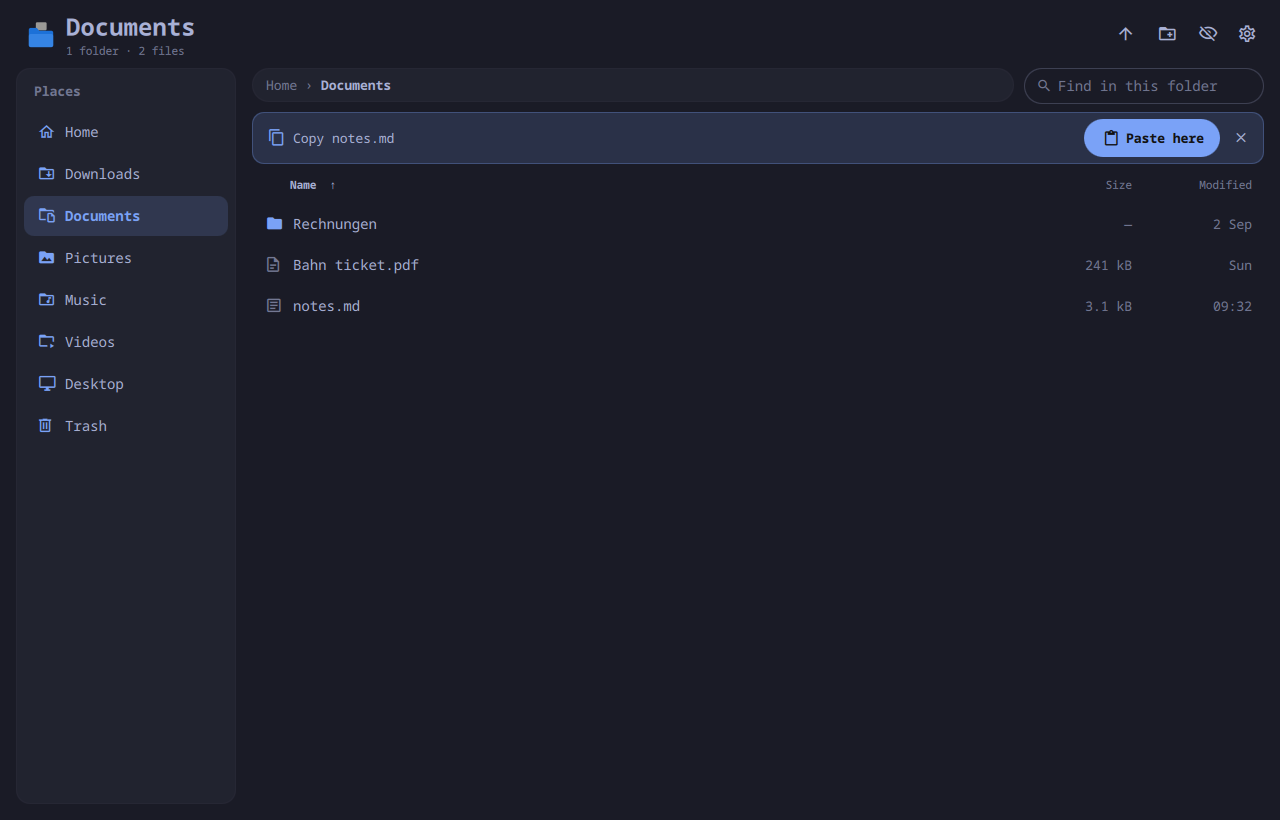
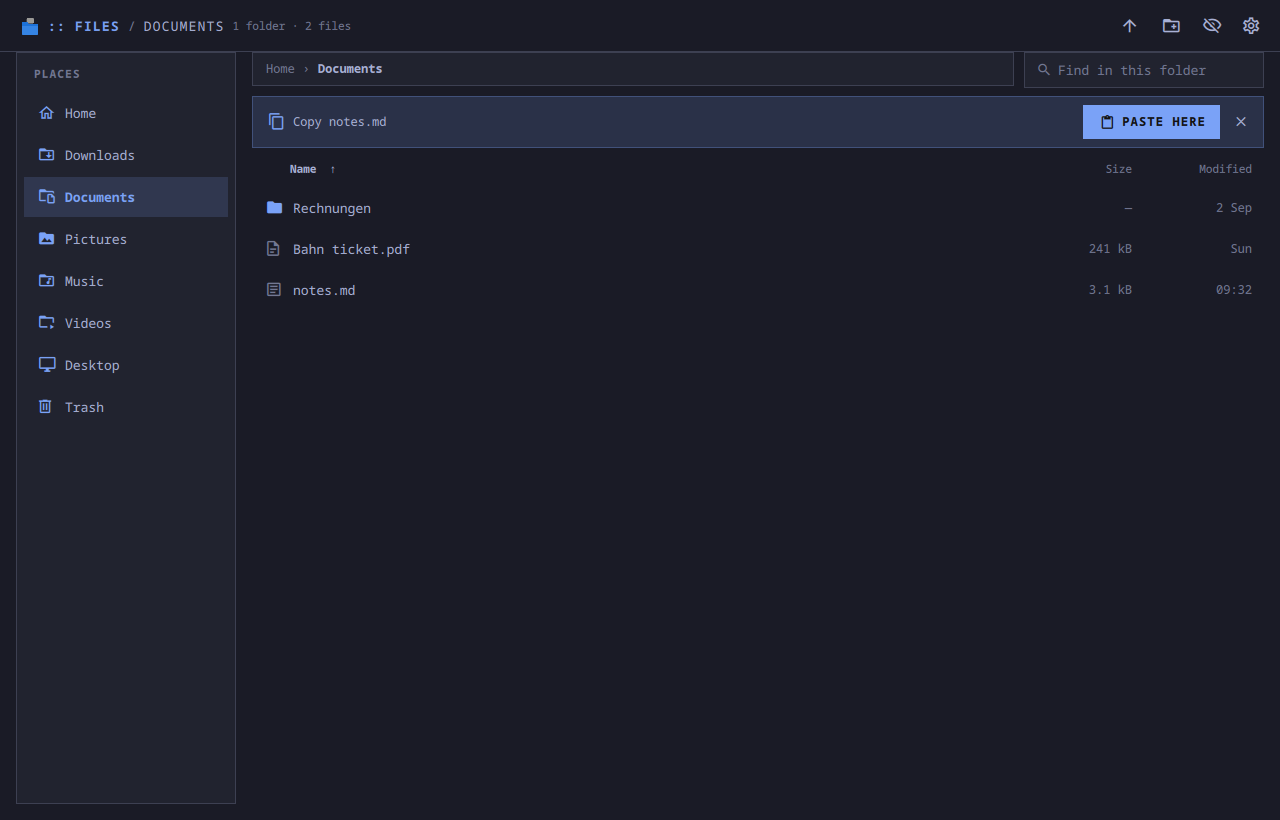
Files in Omarchy's look
The crumb strip, the places pane, the preview and the action sheet are
lined square boxes; 'Places' and the preview's fields are the kit's small
capitals, and a volume's fill bar is square where the theme is.

diff --git a/apps/files/Panel.qml b/apps/files/Panel.qml
@@ -750,10 +750,10 @@ App {
     anchors.bottom: parent.bottom
     anchors.leftMargin: root.compact ? 0 : 16
     anchors.bottomMargin: 16
-    radius: root.ui.radius + 4
+    radius: root.ui.radius
     color: root.ui.surface
     border.width: 1
-    border.color: root.ui.divider
+    border.color: root.ui.line
     Text {
       id: sideTitle
       x: 18
@@ -761,8 +761,10 @@ App {
       text: "Places"
       color: root.ui.muted
       font.family: root.ui.font
-      font.pixelSize: root.ui.fs.sm
-      font.weight: Font.DemiBold
+      font.pixelSize: root.ui.fs.xs
+      font.weight: Font.Bold
+      font.capitalization: Font.AllUppercase
+      font.letterSpacing: root.ui.tracking
     }
     PlacesList {
       anchors.top: sideTitle.bottom
@@ -831,7 +833,7 @@ App {
         visible: root.holding !== null
         width: parent.width
         height: 52
-        radius: root.ui.radius + 2
+        radius: root.ui.radius
         color: root.ui.accentSoft
         border.width: 1
         border.color: root.ui.alpha(root.ui.accent, 0.4)
@@ -903,7 +905,7 @@ App {
             color: root.sort === modelData.key ? root.ui.text : root.ui.muted
             font.family: root.ui.font
             font.pixelSize: root.ui.fs.xs
-            font.weight: root.sort === modelData.key ? Font.DemiBold : Font.Normal
+            font.weight: root.sort === modelData.key ? Font.Bold : Font.Normal
             MouseArea {
               anchors.fill: parent
               cursorShape: Qt.PointingHandCursor

diff --git a/apps/files/ActionSheet.qml b/apps/files/ActionSheet.qml
@@ -45,10 +45,10 @@ Item {
     height: col.implicitHeight + 24 + (atBottom ? root.app.bottomInset : 0)
     anchors.horizontalCenter: parent.horizontalCenter
     y: atBottom ? parent.height - height : (parent.height - height) / 2
-    radius: root.app.ui.radius + 6
+    radius: root.app.ui.radius
     color: root.app.ui.bg
     border.width: 1
-    border.color: root.app.ui.border
+    border.color: root.app.ui.line
     MouseArea { anchors.fill: parent }
 
     Column {
@@ -65,8 +65,10 @@ Item {
         text: root.title
         color: root.app.ui.muted
         font.family: root.app.ui.font
-        font.pixelSize: root.app.ui.fs.sm
-        font.weight: Font.DemiBold
+        font.pixelSize: root.app.ui.fs.xs
+        font.weight: Font.Bold
+        font.capitalization: Font.AllUppercase
+        font.letterSpacing: root.app.ui.tracking
         elide: Text.ElideMiddle
       }
       Column {
@@ -102,7 +104,7 @@ Item {
             color: item.modelData.destructive ? root.app.ui.bad : item.modelData.current ? root.app.ui.accent : root.app.ui.text
             font.family: root.app.ui.font
             font.pixelSize: root.app.ui.fs.md
-            font.weight: item.modelData.current ? Font.DemiBold : Font.Normal
+            font.weight: item.modelData.current ? Font.Bold : Font.Normal
           }
           MouseArea {
             id: mouse

diff --git a/apps/files/Crumbs.qml b/apps/files/Crumbs.qml
@@ -9,10 +9,10 @@ Rectangle {
   signal go(string path)
 
   implicitHeight: app.compact ? 38 : 34
-  radius: height / 2
+  radius: app.ui.radius
   color: app.ui.surface
   border.width: 1
-  border.color: app.ui.divider
+  border.color: app.ui.line
 
   Flickable {
     id: flick
@@ -49,7 +49,7 @@ Rectangle {
             height: row.height - 8
             anchors.verticalCenter: parent.verticalCenter
             width: label.implicitWidth + 16
-            radius: height / 2
+            radius: root.app.ui.radius
             color: crumbMouse.pressed ? root.app.ui.pressed : crumbMouse.containsMouse && !crumb.last ? root.app.ui.hover : "transparent"
             Text {
               id: label
@@ -60,7 +60,7 @@ Rectangle {
               color: crumb.last ? root.app.ui.text : root.app.ui.muted
               font.family: root.app.ui.font
               font.pixelSize: root.app.ui.fs.sm
-              font.weight: crumb.last ? Font.DemiBold : Font.Normal
+              font.weight: crumb.last ? Font.Bold : Font.Normal
             }
             MouseArea {
               id: crumbMouse

diff --git a/apps/files/Preview.qml b/apps/files/Preview.qml
@@ -18,9 +18,9 @@ Rectangle {
   signal close()
 
   color: app.ui.surface
-  radius: app.ui.radius + 4
+  radius: app.ui.radius
   border.width: 1
-  border.color: app.ui.divider
+  border.color: app.ui.line
 
   readonly property string kind: {
     if (!entry) return ""
@@ -68,7 +68,7 @@ Rectangle {
       color: root.app.ui.text
       font.family: root.app.ui.font
       font.pixelSize: root.app.ui.fs.lg
-      font.weight: Font.DemiBold
+      font.weight: Font.Bold
     }
     Column {
       width: parent.width
@@ -89,6 +89,8 @@ Rectangle {
             color: root.app.ui.muted
             font.family: root.app.ui.font
             font.pixelSize: root.app.ui.fs.xs
+            font.capitalization: Font.AllUppercase
+            font.letterSpacing: root.app.ui.tracking
           }
           Text {
             width: parent.width

diff --git a/apps/files/PlacesList.qml b/apps/files/PlacesList.qml
@@ -61,7 +61,7 @@ Flickable {
             color: place.here && !root.app.compact ? root.app.ui.accent : root.app.ui.text
             font.family: root.app.ui.font
             font.pixelSize: root.app.ui.fs.md
-            font.weight: place.here && !root.app.compact ? Font.DemiBold : Font.Normal
+            font.weight: place.here && !root.app.compact ? Font.Bold : Font.Normal
             elide: Text.ElideRight
           }
           Text {
@@ -84,7 +84,7 @@ Flickable {
             visible: !!place.modelData.volume
             width: parent.width
             height: 5
-            radius: 2.5
+            radius: root.app.ui.round(height)
             color: root.app.ui.well
             Rectangle {
               width: Math.max(parent.height, parent.width * place.used)
